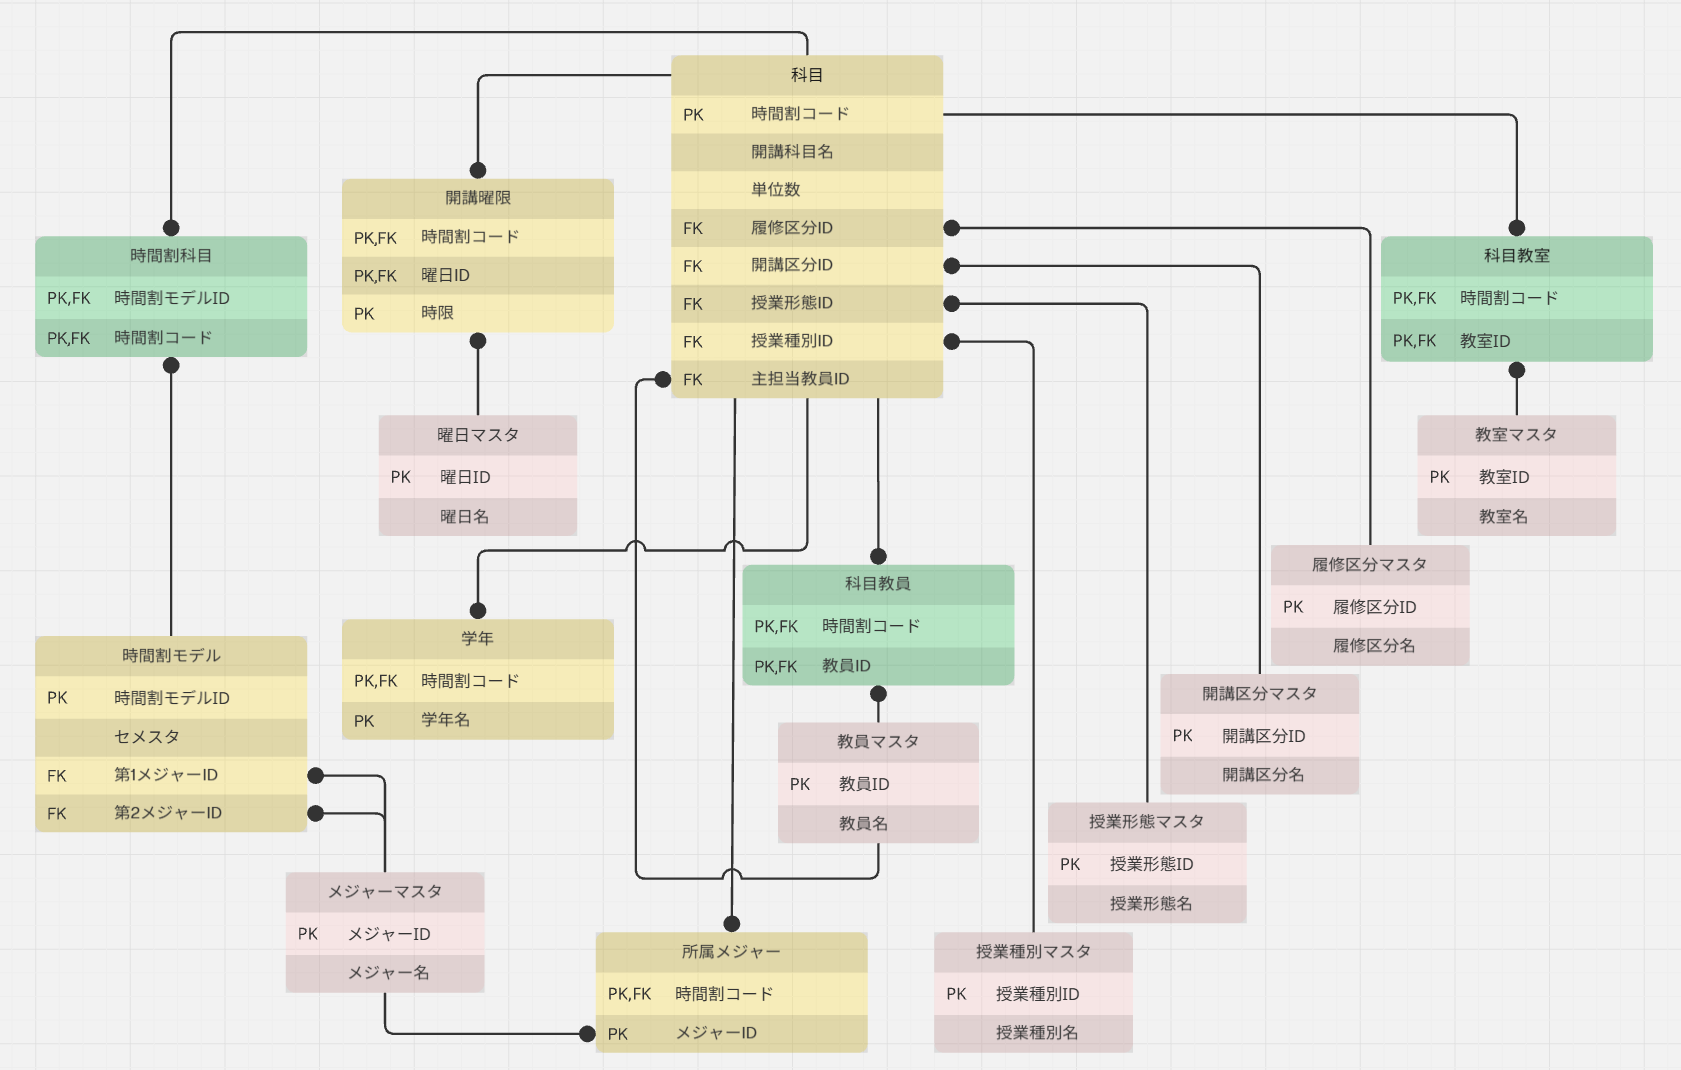
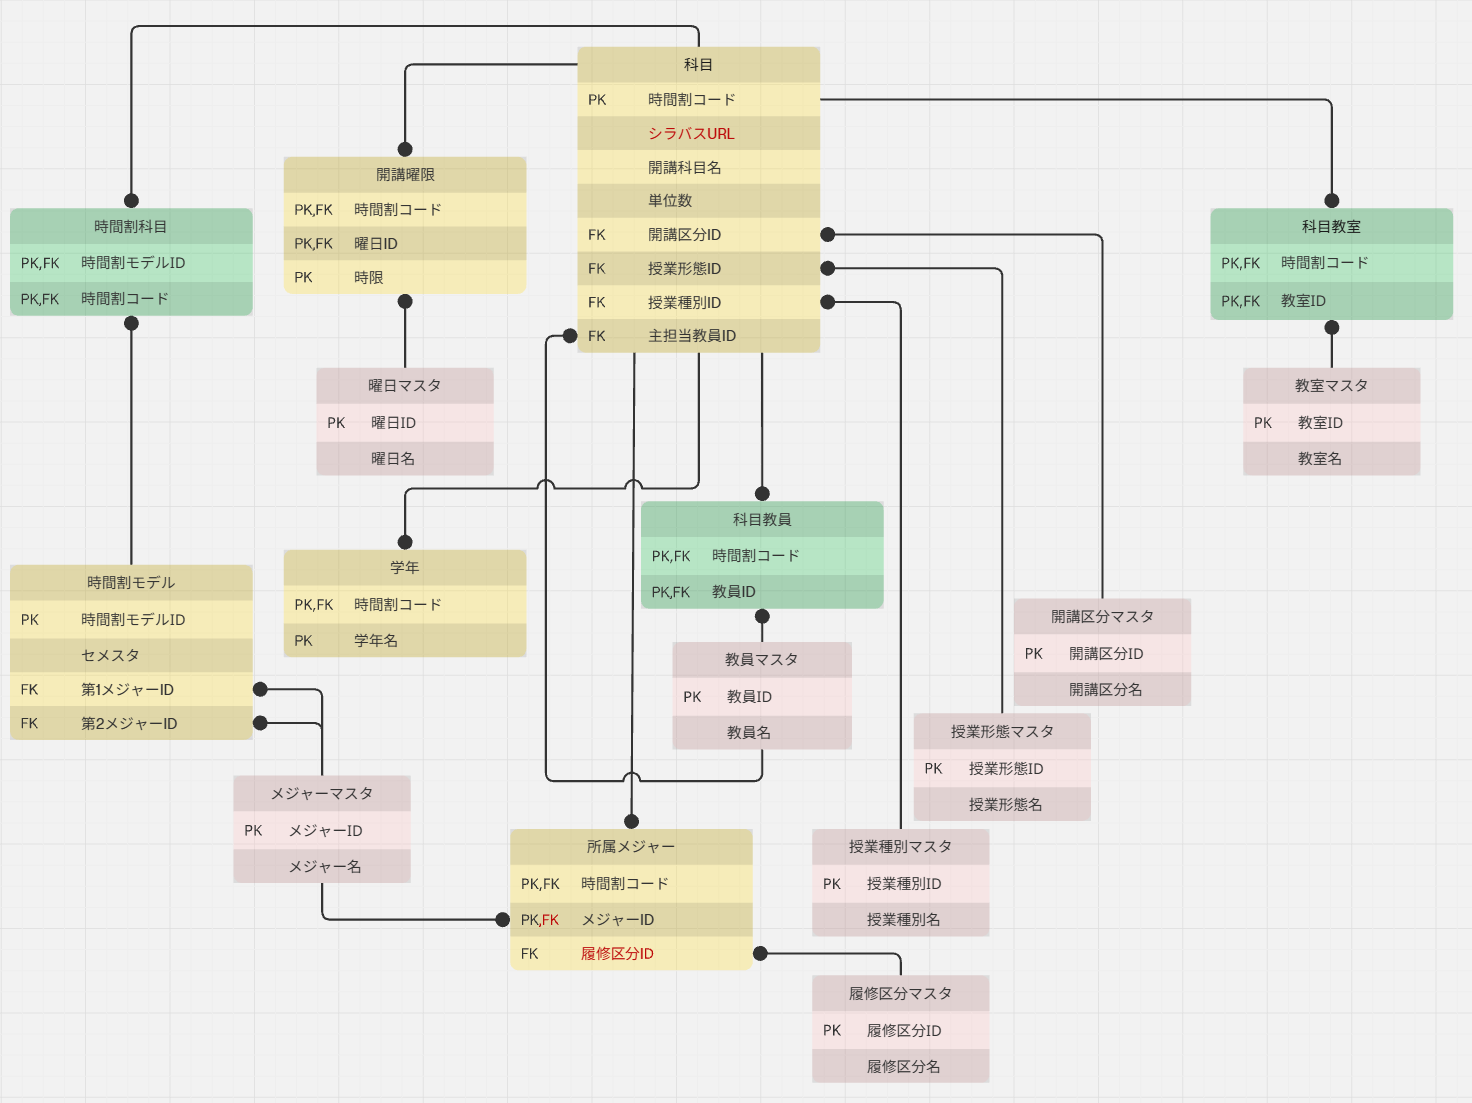
CSVエンコーダを作成

Changed region(s): [[0.0, 0.0, 1.0, 0.9869], [0.6562, 0.2467, 0.6875, 0.3084], [0.7188, 0.2467, 0.75, 0.2776]]

diff --git a/src/csv_extractor.py b/src/csv_extractor.py
@@ -1,0 +1,198 @@
+"""
+DB2-1.csvから各テーブル用のCSVデータを抽出する関数群
+"""
+import csv
+from typing import List, Dict, Set, Tuple
+
+
+def extract_offering_history(input_csv_path: str, output_csv_path: str) -> None:
+    """
+    開講曜限（CourseOfferingHistory）のデータを抽出
+
+    抽出ロジック：
+    - 曜日列を1文字ずつ分割（月火水木金土日）
+    - 時限列を1文字ずつ分割（1-6限）
+    - 曜日の数と時限の数が等しい場合：ペアで対応（例：水金,11 → 水1限,金1限）
+    - 曜日が1つで時限が複数：その曜日の全時限（例：火,34 → 火3限,火4限）
+
+    Args:
+        input_csv_path: 入力CSVファイルのパス（DB2-1.csv）
+        output_csv_path: 出力CSVファイルのパス
+    """
+    # 重複を避けるためにSetで管理
+    records: Set[Tuple[str, str, str]] = set()
+
+    with open(input_csv_path, 'r', encoding='utf-8-sig') as f:
+        reader = csv.DictReader(f)
+
+        for row in reader:
+            timetable_code = row['時間割コード'].strip()
+            days_str = row['曜日'].strip()
+            periods_str = row['時限'].strip()
+
+            # 曜日を1文字ずつ分割
+            days = list(days_str)
+            # 時限を1文字ずつ分割
+            periods = list(periods_str)
+
+            # 曜日と時限の組み合わせを生成
+            if len(days) == len(periods):
+                # 曜日と時限がペアで対応する場合（例：水金,11 → 水1限,金1限）
+                for day, period in zip(days, periods):
+                    records.add((timetable_code, day, period))
+            elif len(days) == 1:
+                # 曜日が1つで時限が複数の場合（例：火,34 → 火3限,火4限）
+                for period in periods:
+                    records.add((timetable_code, days[0], period))
+            elif len(periods) == 1:
+                # 時限が1つで曜日が複数の場合（例：月水,1 → 月1限,水1限）
+                for day in days:
+                    records.add((timetable_code, day, periods[0]))
+            else:
+                # その他の場合は全組み合わせ（念のため）
+                for day in days:
+                    for period in periods:
+                        records.add((timetable_code, day, period))
+
+    # CSVに書き出し
+    with open(output_csv_path, 'w', encoding='utf-8-sig', newline='') as f:
+        writer = csv.writer(f)
+        writer.writerow(['時間割コード', '曜日', '時限'])
+
+        # ソートして書き出し
+        for record in sorted(records):
+            writer.writerow(record)
+
+    print(f"開講曜限データを抽出しました: {len(records)}件 → {output_csv_path}")
+
+
+def extract_grade_years(input_csv_path: str, output_csv_path: str) -> None:
+    """
+    学年（GradeYear）のデータを抽出
+
+    抽出ロジック：
+    - 学年列を1文字ずつ分割
+    - 各文字を学年名として出力（234 → "2","3","4"）
+
+    Args:
+        input_csv_path: 入力CSVファイルのパス（DB2-1.csv）
+        output_csv_path: 出力CSVファイルのパス
+    """
+    # 重複を避けるためにSetで管理
+    records: Set[Tuple[str, str]] = set()
+
+    with open(input_csv_path, 'r', encoding='utf-8-sig') as f:
+        reader = csv.DictReader(f)
+
+        for row in reader:
+            timetable_code = row['時間割コード'].strip()
+            grades_str = row['学年 '].strip()  # カラム名の後ろにスペースあり
+
+            # 学年を1文字ずつ分割
+            for grade in grades_str:
+                if grade.strip():  # 空白文字を除外
+                    records.add((timetable_code, grade))
+
+    # CSVに書き出し
+    with open(output_csv_path, 'w', encoding='utf-8-sig', newline='') as f:
+        writer = csv.writer(f)
+        writer.writerow(['時間割コード', '学年名'])
+
+        # ソートして書き出し
+        for record in sorted(records):
+            writer.writerow(record)
+
+    print(f"学年データを抽出しました: {len(records)}件 → {output_csv_path}")
+
+
+def extract_affiliated_majors(input_csv_path: str, output_csv_path: str) -> None:
+    """
+    所属メジャー（AffiliatedMajor）のデータを抽出
+
+    抽出ロジック：
+    - メジャー列を2文字ずつ分割（IS, NC, XD等）
+    - "その他"のうち、開講科目名に「情報応用」が含まれる場合は「情報応用科目」として扱う
+    - それ以外の"その他"は1つのメジャーとして扱う
+    - 同じ時間割コードでもメジャーごとに履修区分IDが異なる場合があるため、
+      元のCSVの行ごとに処理
+
+    Args:
+        input_csv_path: 入力CSVファイルのパス（DB2-1.csv）
+        output_csv_path: 出力CSVファイルのパス
+    """
+    # 重複を避けるためにSetで管理
+    records: Set[Tuple[str, str, str]] = set()
+
+    with open(input_csv_path, 'r', encoding='utf-8-sig') as f:
+        reader = csv.DictReader(f)
+
+        for row in reader:
+            timetable_code = row['時間割コード'].strip()
+            course_title = row['開講科目名'].strip()
+            majors_str = row['メジャー'].strip()
+            course_category = row['履修区分ID'].strip()
+
+            # メジャーの分割
+            if majors_str == 'その他':
+                # 開講科目名に「情報応用」が含まれる場合は「情報応用科目」として扱う
+                if '情報応用' in course_title:
+                    records.add((timetable_code, '情報応用科目', course_category))
+                else:
+                    # それ以外の"その他"は1つのメジャーとして扱う
+                    records.add((timetable_code, majors_str, course_category))
+            else:
+                # 2文字ずつ分割（IS, NC, XD等）
+                for i in range(0, len(majors_str), 2):
+                    major = majors_str[i:i+2]
+                    if major:  # 空でない場合のみ追加
+                        records.add((timetable_code, major, course_category))
+
+    # CSVに書き出し
+    with open(output_csv_path, 'w', encoding='utf-8-sig', newline='') as f:
+        writer = csv.writer(f)
+        writer.writerow(['時間割コード', 'メジャー', '履修区分ID'])
+
+        # ソートして書き出し
+        for record in sorted(records):
+            writer.writerow(record)
+
+    print(f"所属メジャーデータを抽出しました: {len(records)}件 → {output_csv_path}")
+
+
+if __name__ == '__main__':
+    """
+    実行例：
+    python src/csv_extractor.py
+    """
+    import os
+
+    # 入力ファイル
+    input_file = 'docs/DB2-1.csv'
+
+    # 出力ディレクトリを作成
+    output_dir = 'docs/extracted'
+    os.makedirs(output_dir, exist_ok=True)
+
+    # 各関数を実行
+    print("=" * 60)
+    print("CSV抽出処理を開始します")
+    print("=" * 60)
+
+    extract_offering_history(
+        input_file,
+        f'{output_dir}/course_offering_history.csv'
+    )
+
+    extract_grade_years(
+        input_file,
+        f'{output_dir}/grade_year.csv'
+    )
+
+    extract_affiliated_majors(
+        input_file,
+        f'{output_dir}/affiliated_major.csv'
+    )
+
+    print("=" * 60)
+    print("すべての抽出処理が完了しました")
+    print("=" * 60)

diff --git a/src/translations/field_values.py b/src/translations/field_values.py
@@ -5,7 +5,6 @@ Field Values Definitions and Translations
 """
 
 from enum import IntEnum
-from typing import Dict, List
 
 
 # 時限の値
@@ -64,6 +63,7 @@ class MajorEnum(IntEnum):
     NC = 2     # NC
     XD = 3     # XD
     OTHERS = 4 # その他メジャー
+    INFO_APP = 5 # 情報応用科目
 
 class ClassFormatEnum(IntEnum):
     """授業形態マスタ / Class Format Master"""
@@ -126,6 +126,8 @@ MAJOR_MASTER = {
     1: {"ja": "IS", "en": "IS"},
     2: {"ja": "NC", "en": "NC"},
     3: {"ja": "XD", "en": "XD"},
+    4: {"ja": "その他", "en": "Others"},
+    5: {"ja": "情報応用科目", "en": "Information Application"},
 }
 
 # 授業形態マスタ（Class Format Master）
@@ -148,113 +150,41 @@ CLASSROOM_UNDECIDED = {"ja": "未定", "en": "TBD"}
 
 
 def get_course_category_name(category_id: int, lang: str = 'ja') -> str:
-    """
-    履修区分IDから名称を取得
-
-    Args:
-        category_id: 履修区分ID (1-4)
-        lang: 言語 ('ja' or 'en')
-
-    Returns:
-        履修区分名
-    """
+    """履修区分IDから名称を取得"""
     return COURSE_CATEGORY_MASTER.get(category_id, {}).get(lang, str(category_id))
 
 
 def get_offering_category_name(category_id: int, lang: str = 'ja') -> str:
-    """
-    開講区分IDから名称を取得
-
-    Args:
-        category_id: 開講区分ID (0-6)
-        lang: 言語 ('ja' or 'en')
-
-    Returns:
-        開講区分名
-    """
+    """開講区分IDから名称を取得"""
     return OFFERING_CATEGORY_MASTER.get(category_id, {}).get(lang, str(category_id))
 
 
 def get_day_name(day_id: int, lang: str = 'ja', short: bool = False) -> str:
-    """
-    曜日IDから名称を取得
-
-    Args:
-        day_id: 曜日ID (0-6)
-        lang: 言語 ('ja' or 'en')
-        short: 短縮形を使用するか
-
-    Returns:
-        曜日名
-    """
+    """曜日IDから名称を取得"""
     master = DAY_MASTER_SHORT if short else DAY_MASTER
     return master.get(day_id, {}).get(lang, str(day_id))
 
 
 def get_major_name(major_id: int, lang: str = 'ja') -> str:
-    """
-    メジャーIDから名称を取得
-
-    Args:
-        major_id: メジャーID (1-3)
-        lang: 言語 ('ja' or 'en')
-
-    Returns:
-        メジャー名
-    """
+    """メジャーIDから名称を取得"""
     return MAJOR_MASTER.get(major_id, {}).get(lang, str(major_id))
 
 
 def get_class_format_name(format_id: int, lang: str = 'ja') -> str:
-    """
-    授業形態IDから名称を取得
-
-    Args:
-        format_id: 授業形態ID (1-4)
-        lang: 言語 ('ja' or 'en')
-
-    Returns:
-        授業形態名
-    """
+    """授業形態IDから名称を取得"""
     return CLASS_FORMAT_MASTER.get(format_id, {}).get(lang, str(format_id))
 
 
 def get_course_type_name(type_id: int, lang: str = 'ja') -> str:
-    """
-    授業種別IDから名称を取得
-
-    Args:
-        type_id: 授業種別ID (1-3)
-        lang: 言語 ('ja' or 'en')
-
-    Returns:
-        授業種別名
-    """
+    """授業種別IDから名称を取得"""
     return COURSE_TYPE_MASTER.get(type_id, {}).get(lang, str(type_id))
 
 
 def get_classroom_undecided(lang: str = 'ja') -> str:
-    """
-    教室未定の表示を取得
-
-    Args:
-        lang: 言語 ('ja' or 'en')
-
-    Returns:
-        未定の表示
-    """
+    """教室未定の表示を取得"""
     return CLASSROOM_UNDECIDED.get(lang, "TBD")
 
 
 def get_semester_name(semester_id: int, lang: str = 'ja') -> str:
-    """
-    セメスタIDから名称を取得
-
-    Args:
-        semester_id: セメスタID (3-6)
-        lang: 言語 ('ja' or 'en')
-
-    Returns:
-        セメスタ名
-    """
+    """セメスタIDから名称を取得"""
     return SEMESTERS.get(semester_id, {}).get(lang, str(semester_id))

diff --git a/src/models.py b/src/models.py
@@ -150,6 +150,7 @@ class Course(db.Model):
     __tablename__ = 'course'
 
     timetable_code: Mapped[str] = mapped_column(String(20), primary_key=True)
+    syllabus_url: Mapped[Optional[str]] = mapped_column(String(500))
     course_title: Mapped[str] = mapped_column(String(200))
     credits: Mapped[int] = mapped_column(Integer)
     course_category_id: Mapped[Optional[int]] = mapped_column(Integer, ForeignKey('course_category_master.course_category_id'))
@@ -260,10 +261,12 @@ class AffiliatedMajor(db.Model):
 
     timetable_code: Mapped[str] = mapped_column(String(20), ForeignKey('course.timetable_code'), primary_key=True)
     major_id: Mapped[int] = mapped_column(Integer, ForeignKey('major_master.major_id'), primary_key=True)
+    course_category_id: Mapped[Optional[int]] = mapped_column(Integer, ForeignKey('course_category_master.course_category_id'))
 
     # リレーション
     course: Mapped["Course"] = relationship(back_populates='affiliated_majors')
     major: Mapped["MajorMaster"] = relationship(back_populates='affiliated_majors')
+    course_category: Mapped[Optional["CourseCategoryMaster"]] = relationship()
 
     def __repr__(self):
         return f'<AffiliatedMajor {self.timetable_code} Major:{self.major_id}>'
